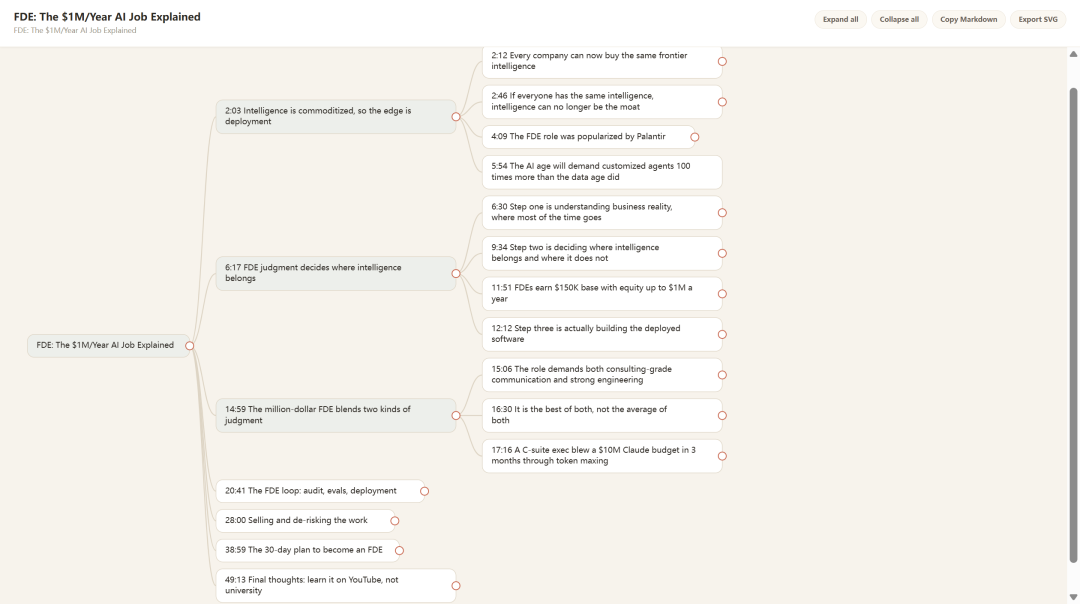
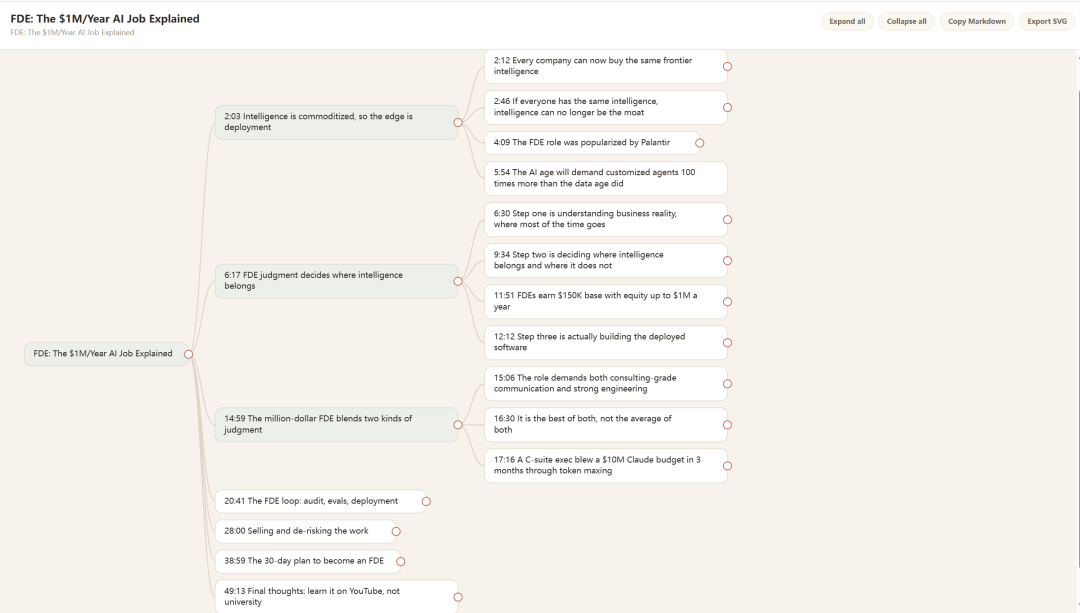
Replace the README screenshots with full window captures
Both READMEs now show the mind map next to the video, in English and Chinese, and all four images share the same 900px width cap because the side panel shots are no longer portrait crops.

diff --git a/README.zh-CN.md b/README.zh-CN.md
@@ -24,7 +24,7 @@ YouTube Digest 是一个需要自行提供 API Key 的开源项目，通过 GitH
 
 一个思维导图视图：把整个视频整理成层级树，节点承载真正的观点而不只是标题；点击带时间戳的节点可跳转视频；跟随 Original / 中文 / 双语设置；并提供可复制 Markdown 或导出 SVG 的全屏大图。
 
-<img src="mindmap-side-panel-zh-CN.png" alt="侧边栏中的思维导图标签页" width="380">
+<img src="mindmap-side-panel-zh-CN.png" alt="侧边栏中的思维导图标签页" width="900">
 
 <img src="mindmap-full-page-zh-CN.png" alt="全屏思维导图，含展开与收起控制" width="900">
 

diff --git a/README.md b/README.md
@@ -22,7 +22,7 @@ YouTube Digest is a bring-your-own-key project installed locally from GitHub. It
 
 A mind map view: a hierarchical tree of the speaker's actual arguments, with timestamps you can click to jump the video, the shared Original, Chinese, or bilingual setting, and a full-page view that copies to Markdown or exports to SVG.
 
-<img src="mindmap-side-panel-en.png" alt="Mind Map tab in the side panel" width="380">
+<img src="mindmap-side-panel-en.png" alt="Mind Map tab in the side panel" width="900">
 
 <img src="mindmap-full-page-en.png" alt="Full-page mind map with expand and collapse controls" width="900">
 
